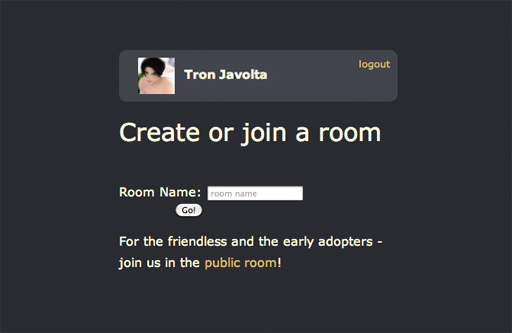
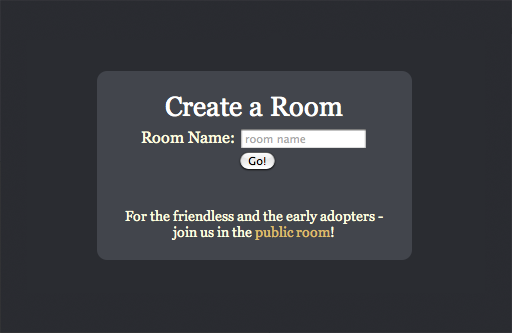
some splash page stuff

diff --git a/static/login.scss b/static/login.scss
@@ -75,10 +75,7 @@ top:40px;
 
 #headline{
   font-size:29px;
-<<<<<<< HEAD
   font-family: Helvetica, sansserif; 
-=======
->>>>>>> soundcloud stuff
   text-align:center;
   position:absolute;
   left:200px;
@@ -86,13 +83,11 @@ top:40px;
 }
 
 #blurb{
-<<<<<<< HEAD
   font-size:15px;
   font-family: Georgia, Palatino, 'Palatino Linotype', serif;
-=======
   font-size:14px;
->>>>>>> soundcloud stuff
   text-align:left;
+  font-style:italic;
   position:absolute;
   line-height: 150%;
   padding-bottom:40px;
@@ -145,10 +140,7 @@ body{
   @include seriffont;
   background-color: $backgroundColor;
   color:$textColor;
-<<<<<<< HEAD
   font-family:Helvetica;
-=======
->>>>>>> soundcloud stuff
 }
 
 .dotfm{
@@ -167,10 +159,7 @@ a:hover{
 
 
 #info{
-<<<<<<< HEAD
   font-family:Helvetica;
-=======
->>>>>>> soundcloud stuff
   text-align:center;
   font-size:24px;
   color:#46433A
@@ -179,6 +168,31 @@ a:hover{
 img{
   border:none;
   vertical-align:middle;
+}
+
+a.facebookbutton {
+  background: url(/static/signfacebook_sprite.png) no-repeat 0 0;
+  width: 151px;
+  height: 22px;
+  display: inline-block;
+  text-indent: -9999px;
+}
+a.facebookbutton:active { 
+  background-position: 0 -22px; 
+  outline:none;
+}
+
+a.twitterbutton {
+  background: url(/static/signtwitter_sprite.png) no-repeat 0 0;
+   width: 151px;
+   height: 22px;
+   display: inline-block;
+   text-indent: -9999px;
+}
+
+a.twitterbutton:active { 
+  background-position: 0 -22px;
+  outline: none; 
 }
 
 /*Carousel stuff */

diff --git a/static/login.css b/static/login.css
@@ -52,7 +52,9 @@ h1 {
 #blurb {
   font-size: 15px;
   font-family: Georgia, Palatino, 'Palatino Linotype', serif;
+  font-size: 14px;
   text-align: left;
+  font-style: italic;
   position: absolute;
   line-height: 150%;
   padding-bottom: 40px;
@@ -119,6 +121,28 @@ a:hover {
 img {
   border: none;
   vertical-align: middle; }
+
+a.facebookbutton {
+  background: url(/static/signfacebook_sprite.png) no-repeat 0 0;
+  width: 151px;
+  height: 22px;
+  display: inline-block;
+  text-indent: -9999px; }
+
+a.facebookbutton:active {
+  background-position: 0 -22px;
+  outline: none; }
+
+a.twitterbutton {
+  background: url(/static/signtwitter_sprite.png) no-repeat 0 0;
+  width: 151px;
+  height: 22px;
+  display: inline-block;
+  text-indent: -9999px; }
+
+a.twitterbutton:active {
+  background-position: 0 -22px;
+  outline: none; }
 
 /*Carousel stuff */
 .agile_carousel img {
